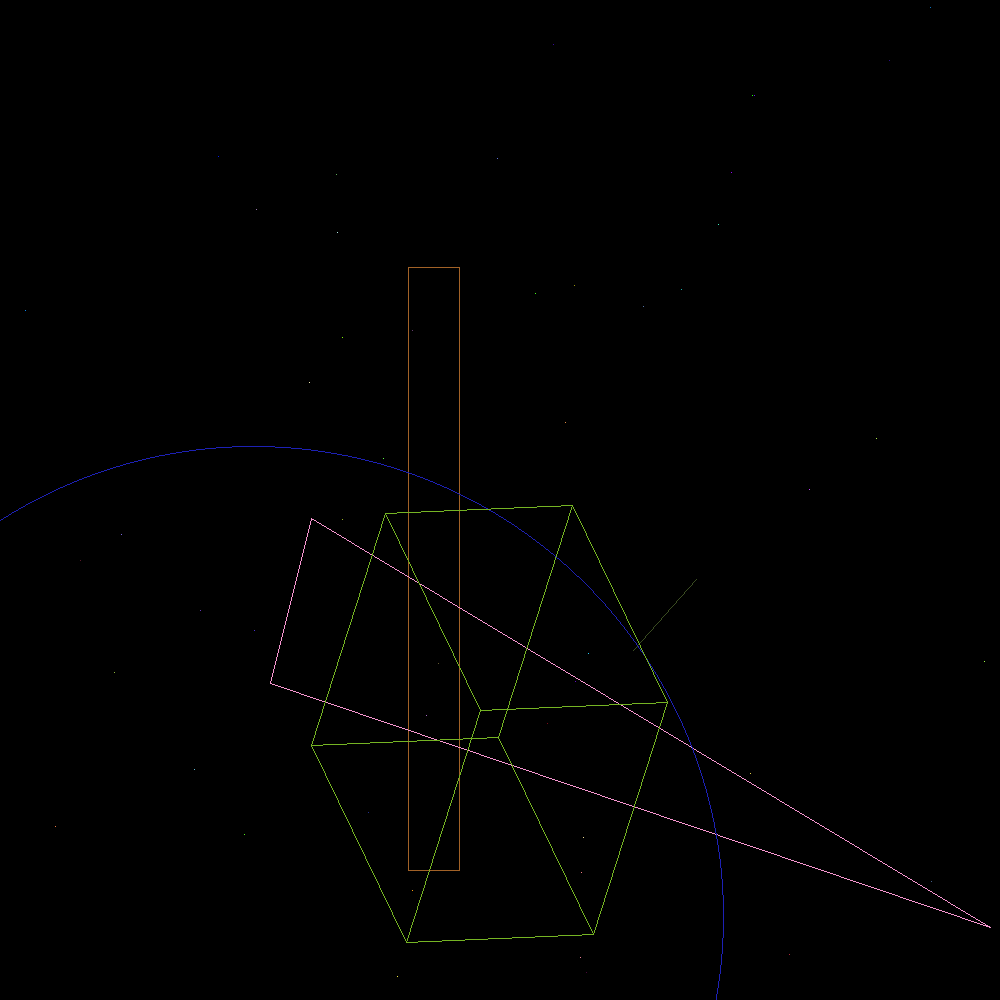
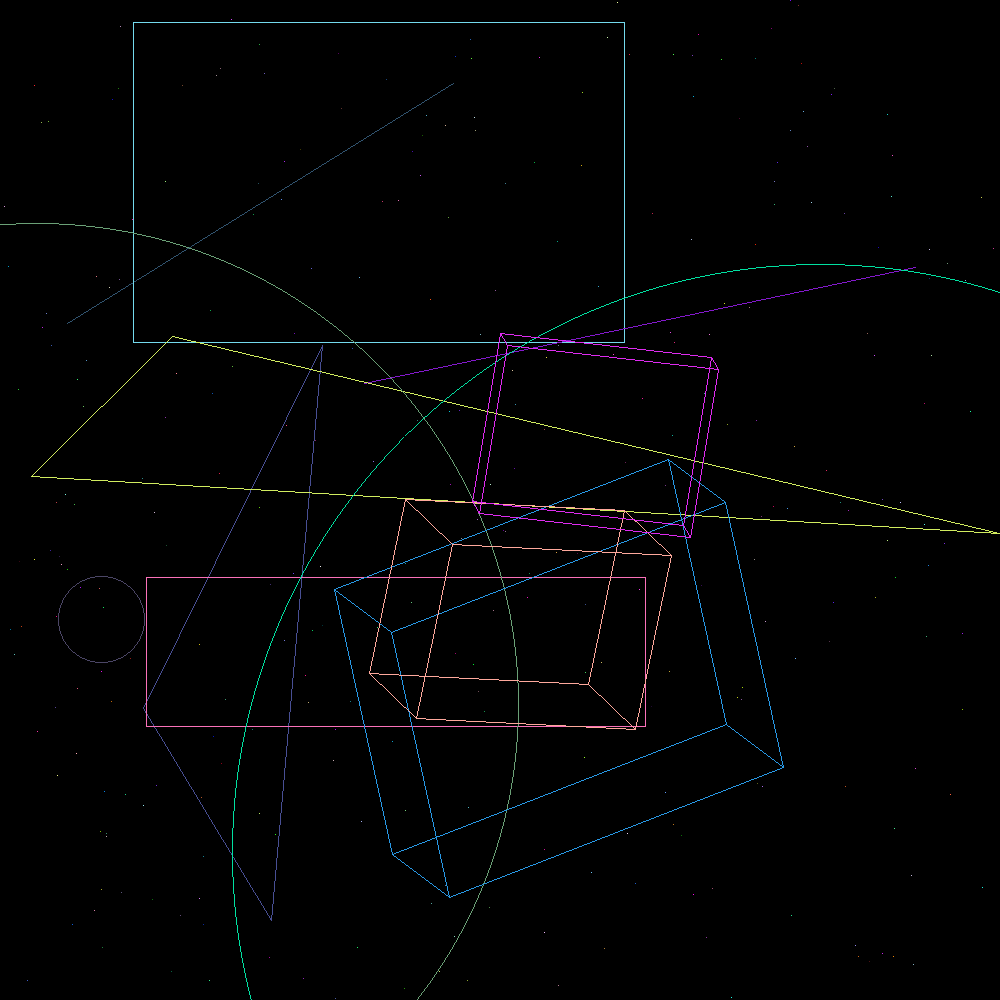
not good enough

diff --git a/src/geometrical_shapes.rs b/src/geometrical_shapes.rs
@@ -170,6 +170,7 @@ impl Cube {
             swap(&mut diag_1, &mut diag_2);
             swap(&mut len_d1, &mut len_d2);
         }
+        let height = get_cube_height(&diag_1, &diag_2, len_d1);
 
         // Midpoint of initial parallelogram
         let m = Point::new(
@@ -186,7 +187,6 @@ impl Cube {
 
         // Angle from diag_1 and length for height lines
         let angle_3 = (angle_1 + angle_2) / 2.0;
-        let height = get_cube_height(&diag_1, &diag_2, len_d1);
         let offset = point_from_angle_and_distance(&diag_1, angle_3, height);
 
         let (a2, b2, c2, d2) = (
@@ -313,13 +313,12 @@ impl Drawable for Cube {
         let lines = vec![
             a1b1, b1c1, c1d1, d1a1, a1a2, b1b2, c1c2, d1d2, a2b2, b2c2, c2d2, d2a2,
         ];
-        for (i, l) in lines.iter().enumerate() {
+        for l in lines {
             l.draw_with_color(image, random_color.clone());
         }
     }
 }
 
-// Make these Cube methods
 fn angle_from_points(a: &Point, b: &Point, c: &Point) -> f64 {
     // Vectors ba and bc
     let bax = (a.x - b.x) as f64;
@@ -342,7 +341,6 @@ fn angle_from_points(a: &Point, b: &Point, c: &Point) -> f64 {
     cos_theta.acos() // radians in [0, PI]
 }
 
-// Point method
 fn point_from_angle_and_distance(l: &Line, a: f64, h: f64) -> Point {
     // direction of reference line
     let dx = (l.1.x - l.0.x) as f64;

diff --git a/src/main.rs b/src/main.rs
@@ -20,21 +20,21 @@ fn main() {
     );
     triangle.draw(&mut image); */
 
-    for _ in 0..50 {
+    for _ in 0..300 {
         gs::Point::random(image.width, image.height).draw(&mut image);
     }
 
-    for _ in 0..1 {
+    for _ in 0..2 {
         gs::Line::random(image.width, image.height).draw(&mut image);
         gs::Rectangle::random(image.width, image.height).draw(&mut image);
         gs::Triangle::random(image.width, image.height).draw(&mut image);
     }
 
-    for _ in 0..1 {
+    for _ in 0..3 {
         gs::Circle::random(image.width, image.height).draw(&mut image);
     }
 
-    for _ in 0..1 {
+    for _ in 0..3 {
         gs::Cube::random(image.width, image.height).draw(&mut image);
     }
 
